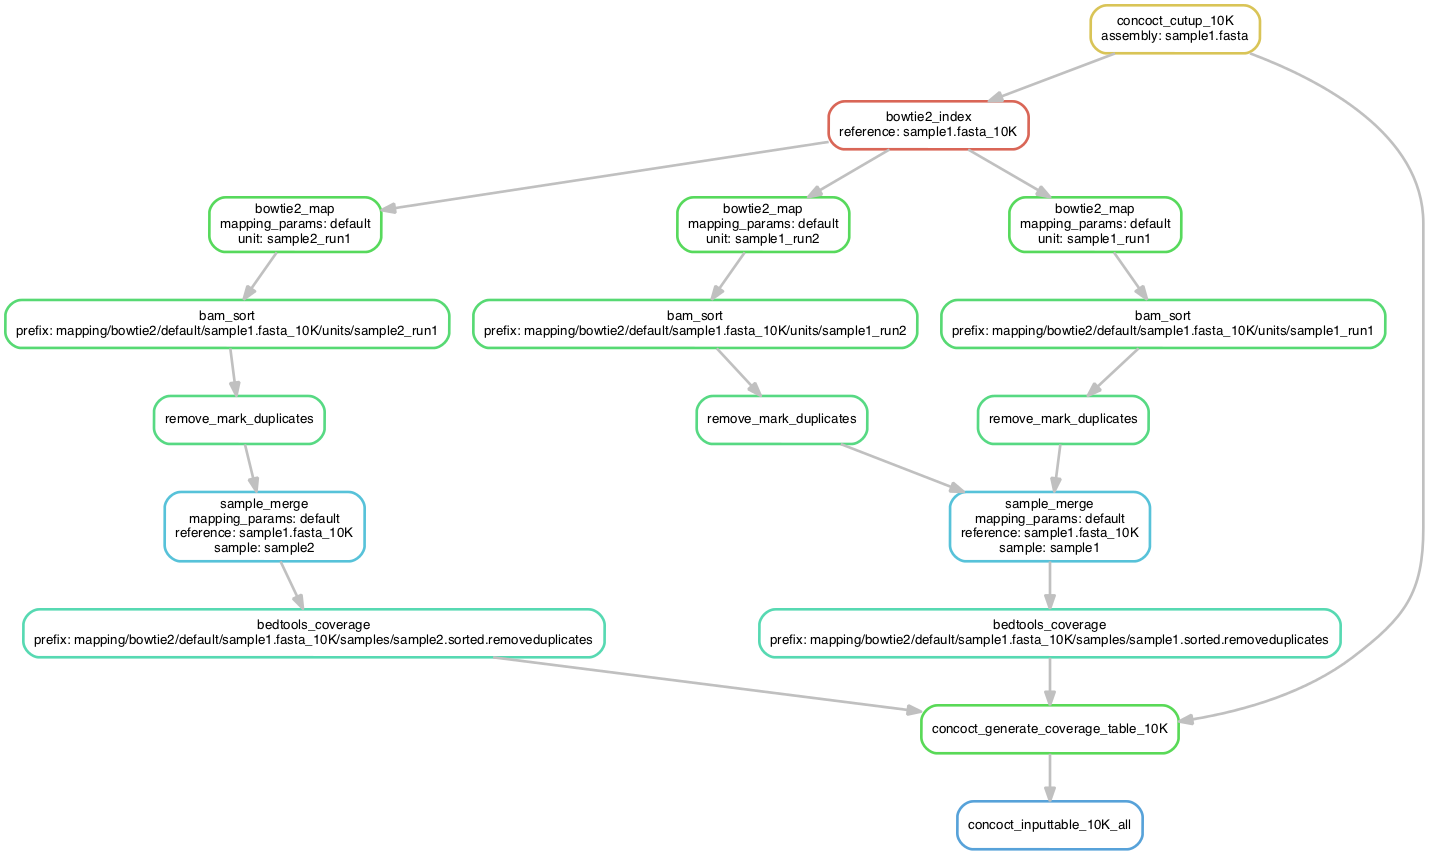
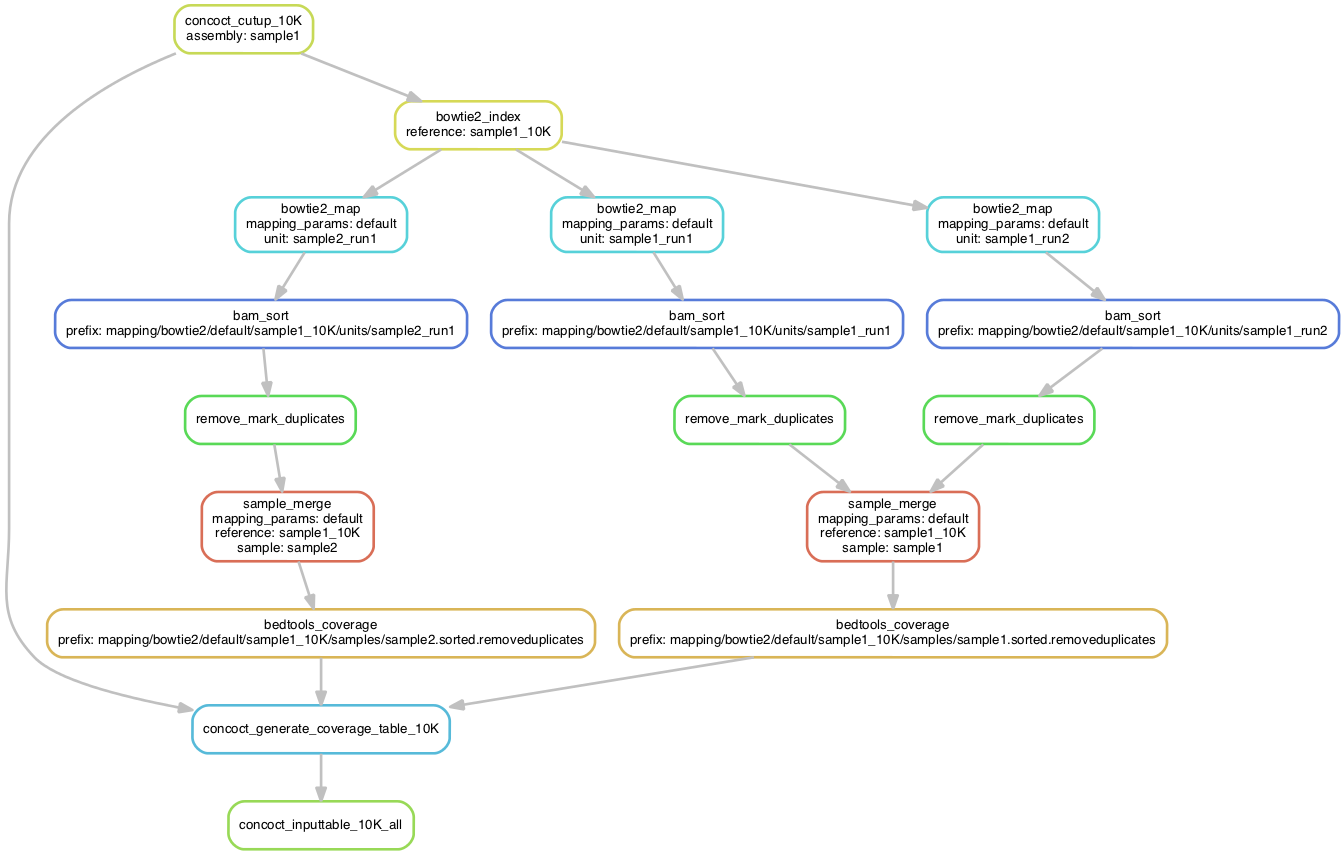
Proper names for contigs

diff --git a/README.md b/README.md
@@ -47,5 +47,6 @@ Test if snakemake accepts your input files
     snakemake --dryrun concoct_inputtable_10K_all
 
 
-Images
+Overview of workflow
+--------------------
 ![alt-tag](images/inputtable_1sample.png)
